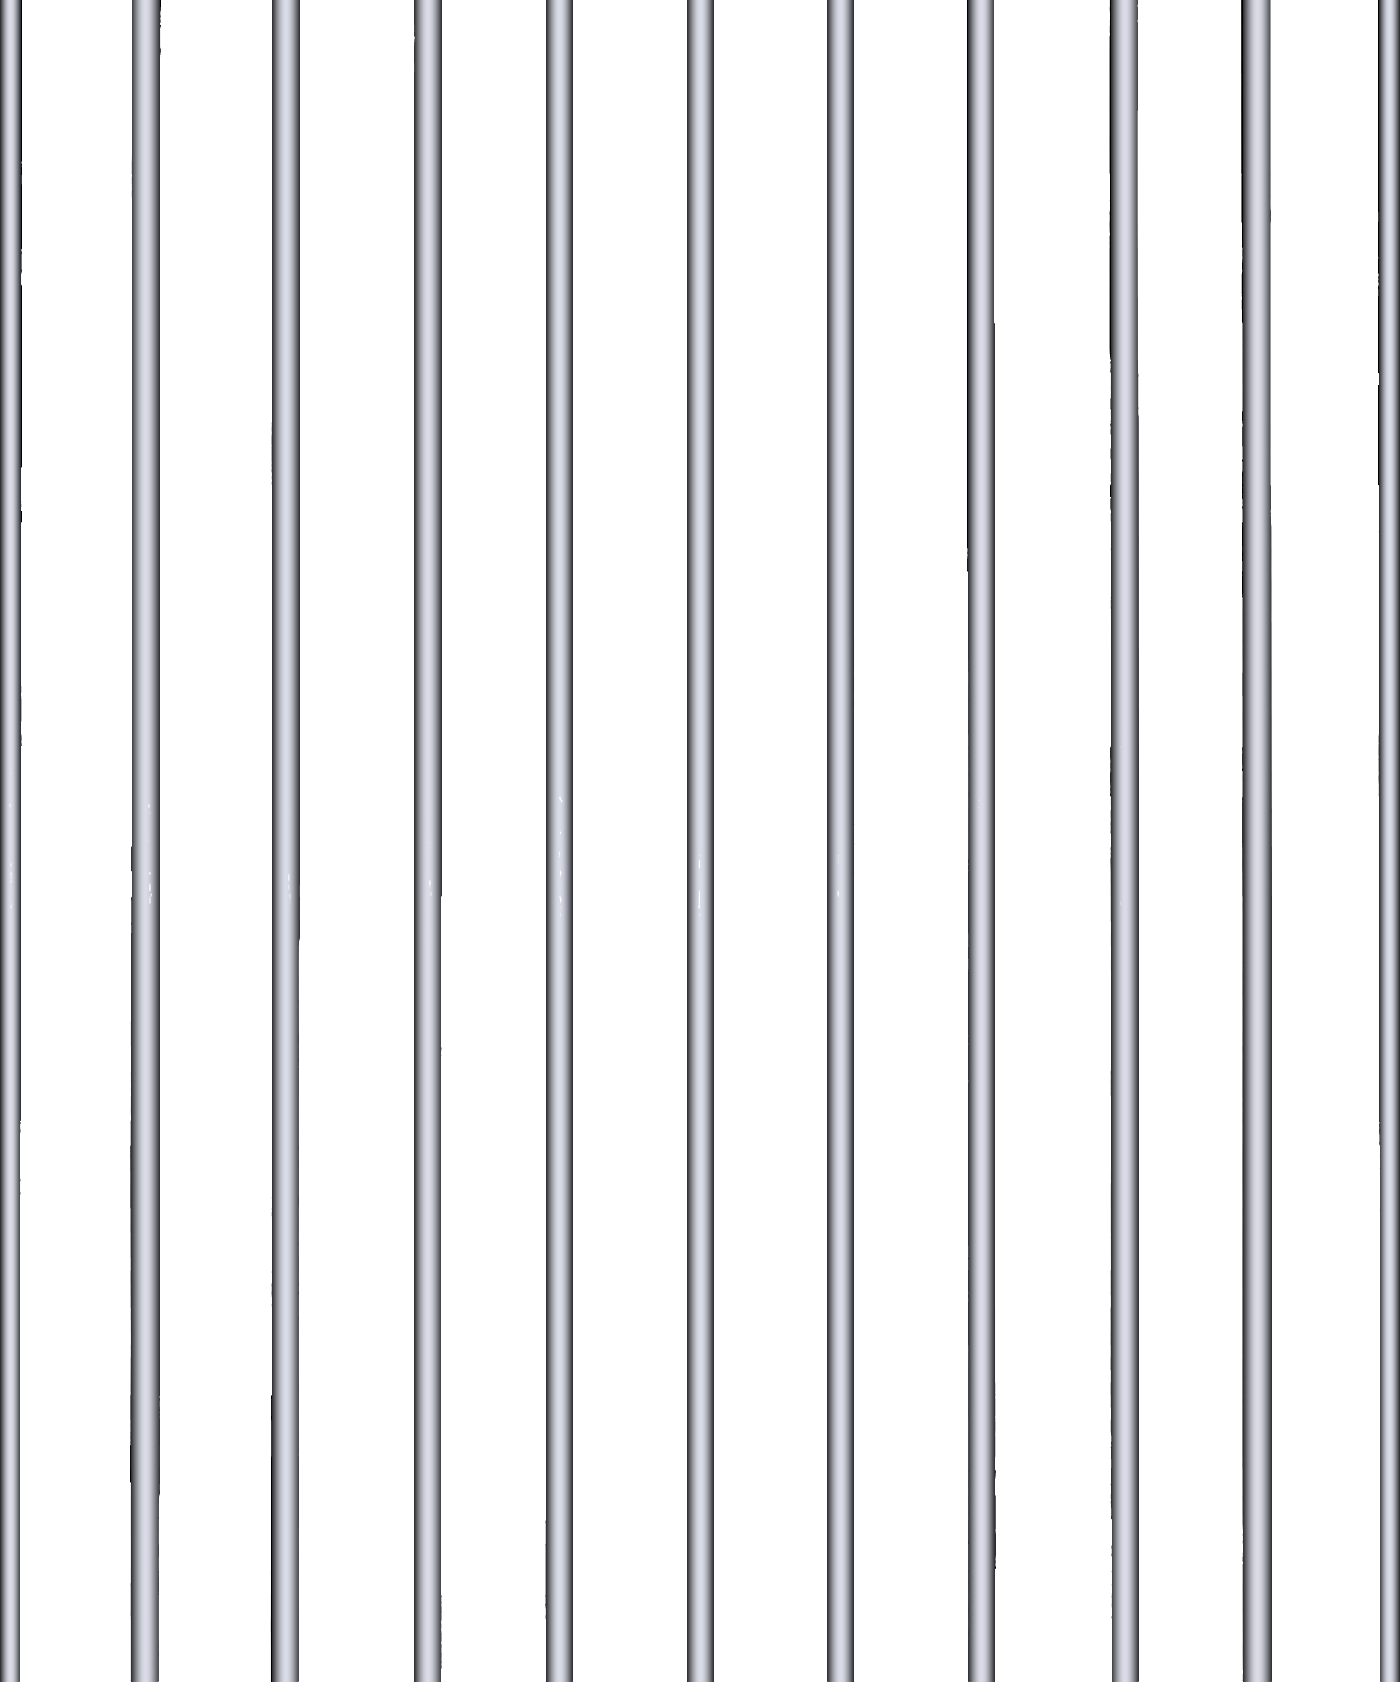
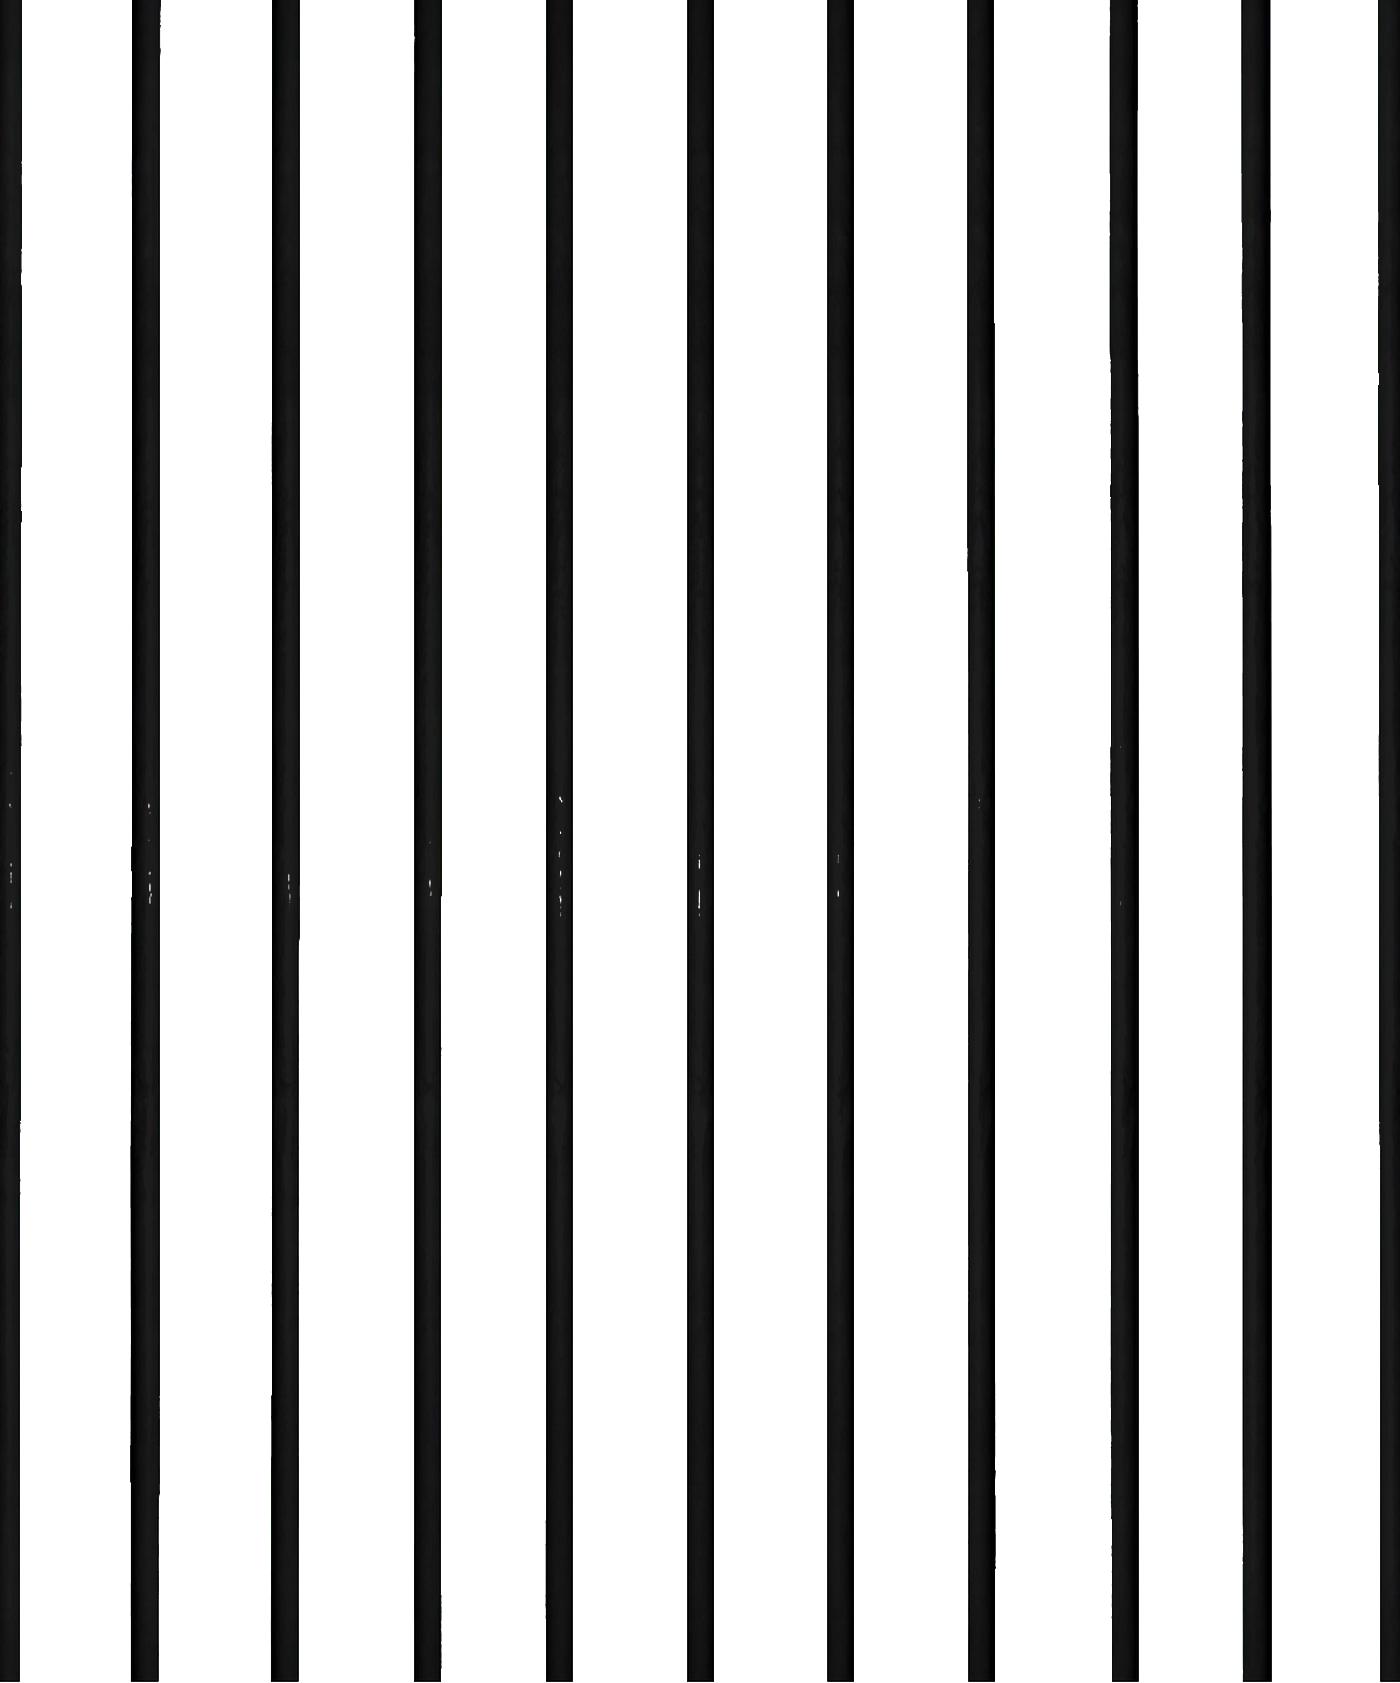
Keep prison bars black

diff --git a/index.html b/index.html
@@ -356,7 +356,7 @@
   .scard:hover .scard-ico{opacity:.42}
   .scard.wide .scard-ico{top:50%}
   /* Prison-bar overlay on the hero */
-  .hero-bars{position:absolute;inset:0;z-index:2;pointer-events:none;background:url('bars.png?v=2') center/cover no-repeat;opacity:.9;
+  .hero-bars{position:absolute;inset:0;z-index:2;pointer-events:none;background:url('bars.png?v=3') center/cover no-repeat;opacity:.9;
     -webkit-mask-image:linear-gradient(90deg,rgba(0,0,0,.35) 0%,#000 34%,#000 100%);mask-image:linear-gradient(90deg,rgba(0,0,0,.35) 0%,#000 34%,#000 100%)}
   @media(max-width:640px){.hero-bars{opacity:.82;-webkit-mask-image:linear-gradient(180deg,#000 0%,#000 55%,rgba(0,0,0,.25) 100%);mask-image:linear-gradient(180deg,#000 0%,#000 55%,rgba(0,0,0,.25) 100%)}}
 </style>
